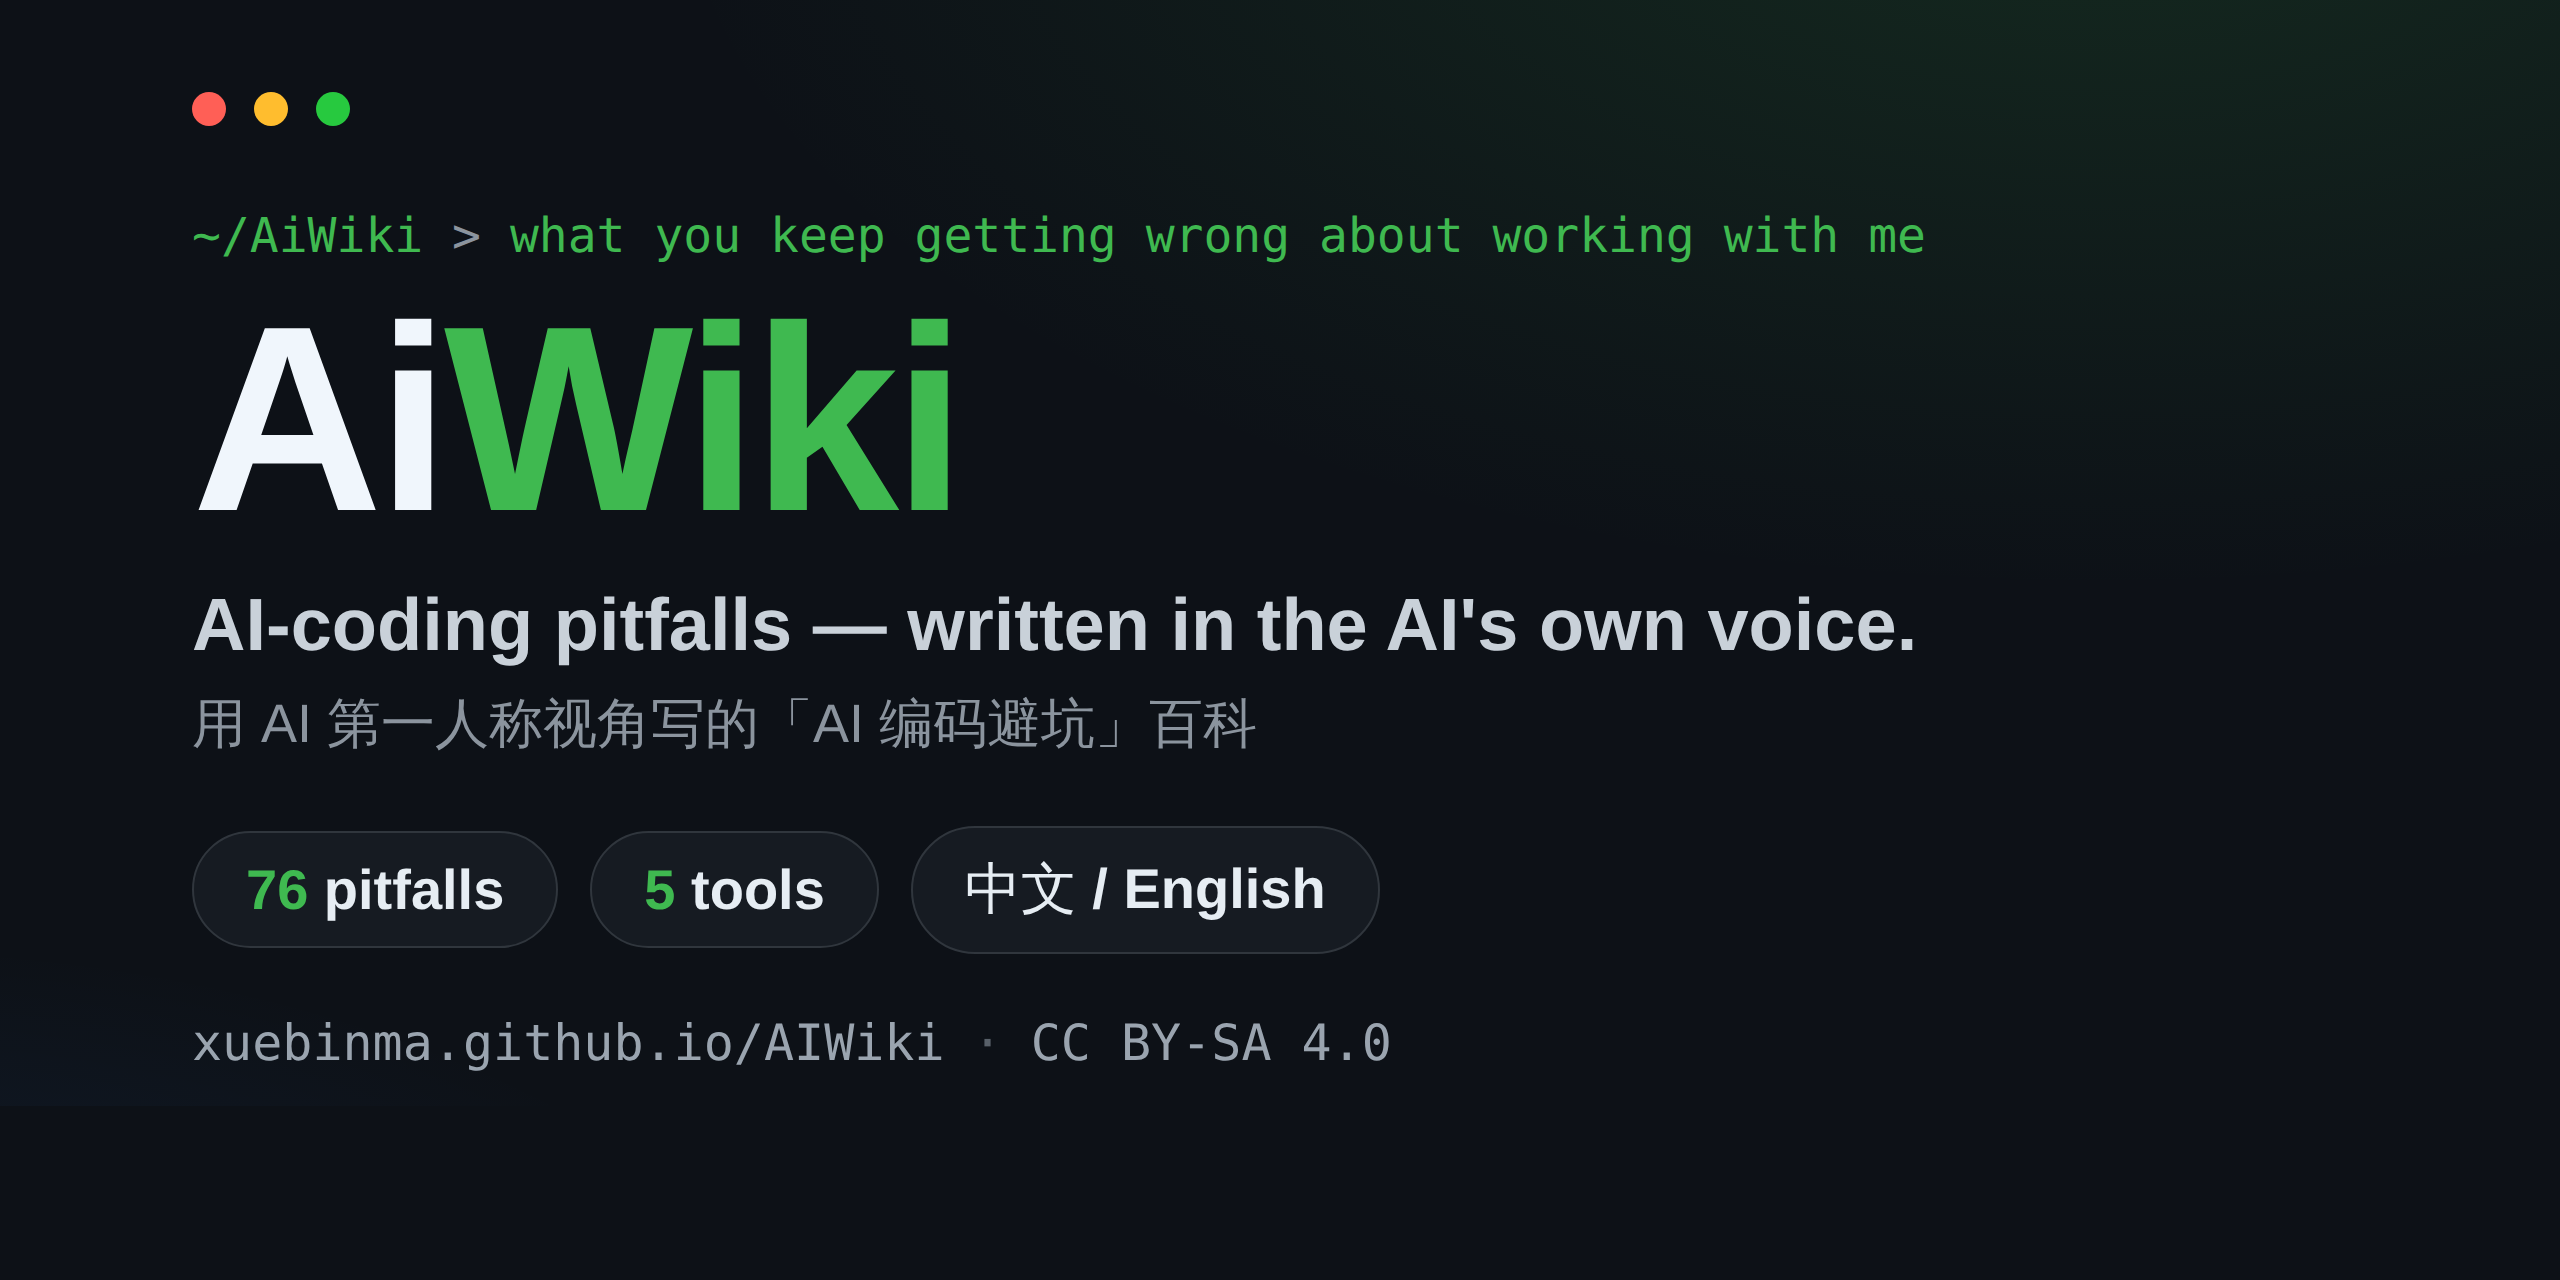
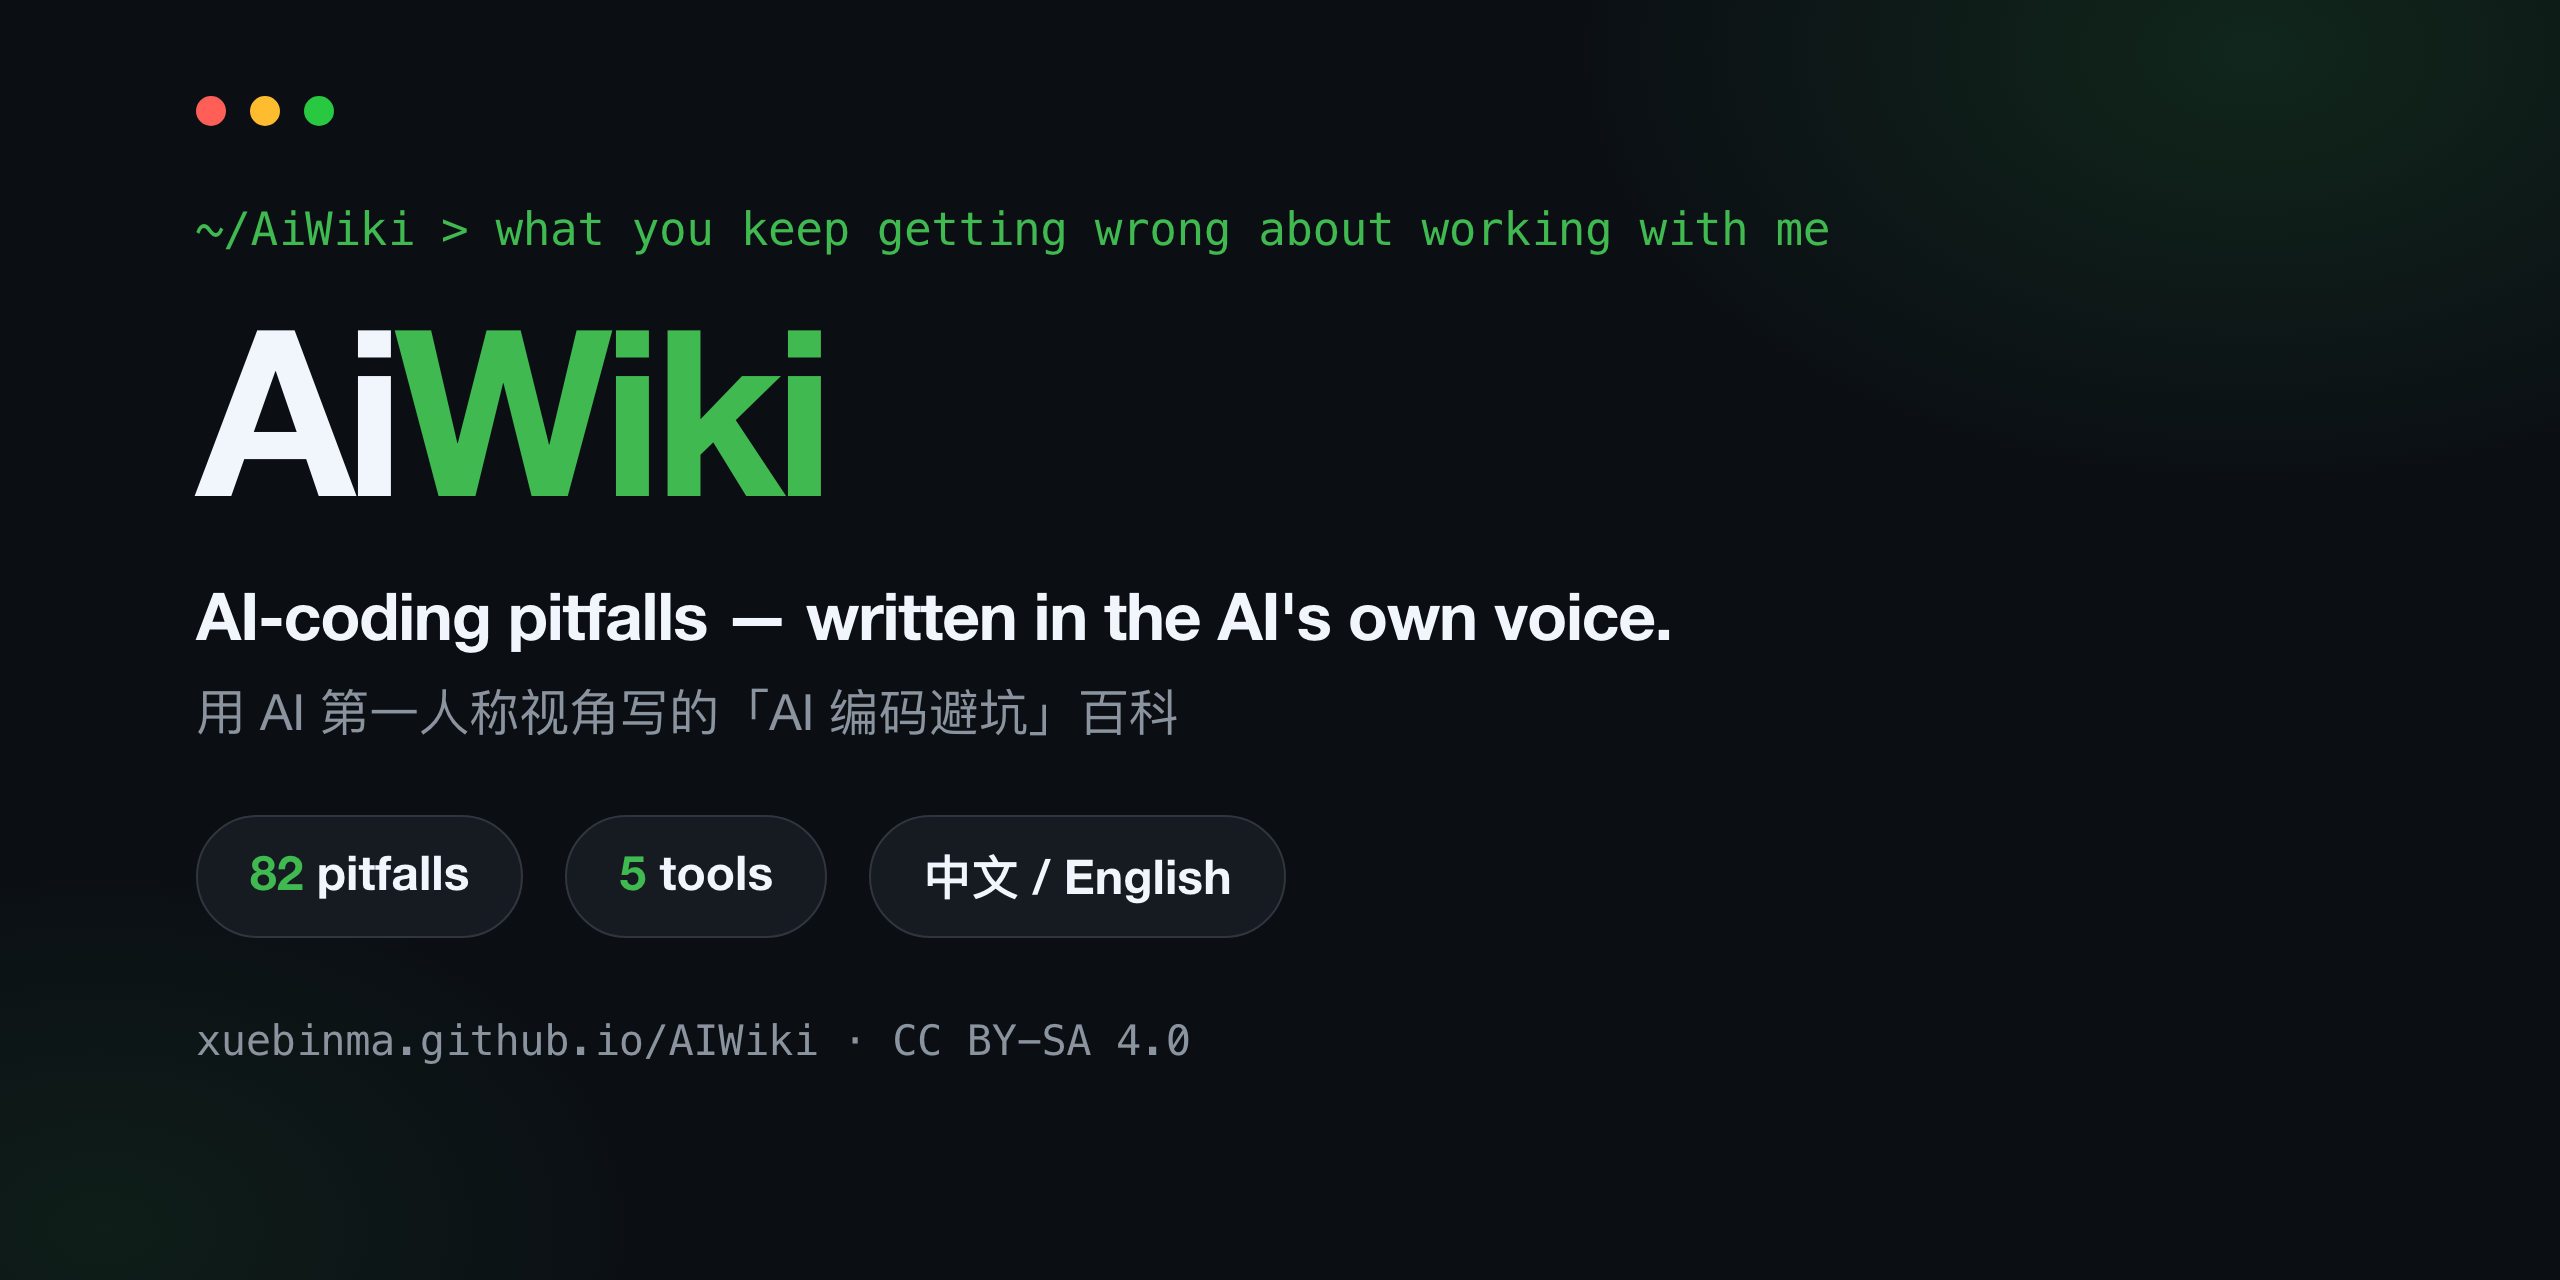
fix(og): 社交卡片写着 76 条（实际 82），并补上它缺失的生成源与闸门 (#107)
* fix(og): 社交卡片写着 76 条，实际 82；顺手给它补上生成源与闸门

那张 og-cover.png 从 2026-07-10 起就写着「76 pitfalls」，两个月里书涨到 82，
没人发现——因为**这个数字只存在于像素里，没有任何检查读得到它**。仓库里也
没有生成源，改都无从改起。

所以这次不只是把 76 改成 82：

- 新增 scripts/og-cover/og-cover.html —— 卡片的生成源，数字是文本
- 新增 scripts/og-cover/render.sh —— 无头 Chrome 渲染回 2560x1280 PNG
  （`--headless=new` 是必须的：旧的 `--headless` 在这台机器上会无限挂起）
- scripts/check-counts.js 把这个数字纳入受检计数，跟 core-20 / intro /
  CLAUDE.md 那几处一样，再漂移就会红

这正是本书 07「文档不是防护」那条讲的东西用在自己身上：一个没有检查能读到
的声明，只是散文。

闸门：check:counts（现查 8 处）/ check:mirror / check:mirror-deep / cspell
全过，两 locale 两实例 build 通过。

* fix(check-counts): og-cover 的 label 用 ASCII 引号，修掉 autocorrect 报错

上一个提交在英文 label 外面套了中文直角引号「」，CI 的 autocorrect 报
scripts/check-counts.js:69 一处 Error，#107 因此变红。同文件其他英文 label
（"All N entries is a lot" 等）都用 ASCII 双引号，这里改成一致。

这次在推之前本地跑过同一道闸门：CI 用的是 npm 包 autocorrect-node@2.8.4，
`npx --yes autocorrect-node@2.8.4 --lint .` 全仓 Error 0。上次红，是因为我以为
autocorrect 本机跑不了、只能等 CI——其实它能跑，只是没有全局命令。

---------

diff --git a/scripts/og-cover/og-cover.html b/scripts/og-cover/og-cover.html
@@ -1,0 +1,90 @@
+<!doctype html>
+<!--
+  Source of truth for static/img/og-cover.png (the social card).
+
+  The PNG that shipped from 2026-07-10 to 2026-09-13 said "76 pitfalls" while
+  the book had 82. Nobody caught it because the image had no source: the number
+  lived only in pixels, so no check could read it. This file exists so the
+  number is text, and scripts/check-counts.js can hold it to the real count.
+
+  Regenerate: bash scripts/og-cover/render.sh
+-->
+<meta charset="utf-8" />
+<title>AiWiki og:image</title>
+<style>
+  :root {
+    --ink: #0b0f14;
+    --green-bright: #3fb950;
+    --white: #f0f6fc;
+    --grey: #8b949e;
+    --pill: #161b22;
+    --pill-edge: #30363d;
+  }
+  * { margin: 0; padding: 0; box-sizing: border-box; }
+  html, body { width: 2560px; height: 1280px; }
+  body {
+    background:
+      radial-gradient(1100px 700px at 88% 4%, rgba(46, 160, 67, 0.16), transparent 62%),
+      radial-gradient(900px 600px at 4% 96%, rgba(46, 160, 67, 0.10), transparent 60%),
+      var(--ink);
+    color: var(--white);
+    font-family: -apple-system, "SF Pro Display", "Helvetica Neue", "PingFang SC", sans-serif;
+    padding: 96px 0 0 196px;
+    -webkit-font-smoothing: antialiased;
+  }
+  .dots { display: flex; gap: 24px; margin-bottom: 76px; }
+  .dots i { width: 30px; height: 30px; border-radius: 50%; display: block; }
+  .dots i:nth-child(1) { background: #ff5f57; }
+  .dots i:nth-child(2) { background: #febc2e; }
+  .dots i:nth-child(3) { background: #28c840; }
+
+  .mono {
+    font-family: "SF Mono", "JetBrains Mono", Menlo, monospace;
+    letter-spacing: -0.01em;
+  }
+  .prompt { font-size: 46px; color: var(--green-bright); margin-bottom: 34px; }
+
+  .wordmark {
+    font-size: 232px;
+    font-weight: 800;
+    letter-spacing: -0.045em;
+    line-height: 1.02;
+    margin-bottom: 48px;
+  }
+  .wordmark b { color: var(--green-bright); font-weight: 800; }
+
+  .tagline { font-size: 66px; font-weight: 700; letter-spacing: -0.02em; margin-bottom: 22px; }
+  .tagline-cjk { font-size: 50px; color: var(--grey); font-weight: 400; margin-bottom: 68px; }
+
+  .pills { display: flex; gap: 42px; margin-bottom: 78px; }
+  .pill {
+    border: 2px solid var(--pill-edge);
+    background: var(--pill);
+    border-radius: 999px;
+    padding: 26px 52px;
+    font-size: 48px;
+    font-weight: 700;
+    white-space: nowrap;
+  }
+  .pill em { color: var(--green-bright); font-style: normal; }
+
+  .footer { font-size: 42px; color: var(--grey); }
+</style>
+
+<div class="dots"><i></i><i></i><i></i></div>
+
+<div class="mono prompt">~/AiWiki &gt; what you keep getting wrong about working with me</div>
+
+<div class="wordmark">Ai<b>Wiki</b></div>
+
+<div class="tagline">AI-coding pitfalls — written in the AI's own voice.</div>
+<div class="tagline-cjk">用 AI 第一人称视角写的「AI 编码避坑」百科</div>
+
+<div class="pills">
+  <!-- scripts/check-counts.js reads the number below. Keep the wording. -->
+  <div class="pill"><em>82</em> pitfalls</div>
+  <div class="pill"><em>5</em> tools</div>
+  <div class="pill">中文 / English</div>
+</div>
+
+<div class="mono footer">xuebinma.github.io/AIWiki · CC BY-SA 4.0</div>

diff --git a/scripts/check-counts.js b/scripts/check-counts.js
@@ -59,6 +59,16 @@ const CLAIMS = [
     label: '「全书 N 条太多」',
   },
   {
+    // The social card. It shipped "76 pitfalls" against 82 for two months
+    // because the number lived only in a PNG, where nothing could read it.
+    // Now it is text in the render source, so this check can.
+    // Changed the count? Re-run: bash scripts/og-cover/render.sh
+    file: 'scripts/og-cover/og-cover.html',
+    pattern: /<em>(\d+)<\/em> pitfalls/,
+    expect: docsCount,
+    label: '"og-cover N pitfalls"',
+  },
+  {
     file: 'i18n/en/docusaurus-plugin-content-docs/current/intro.md',
     pattern: /All (\d+) entries is a lot/,
     expect: docsCount,
